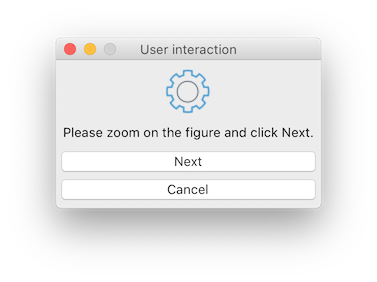
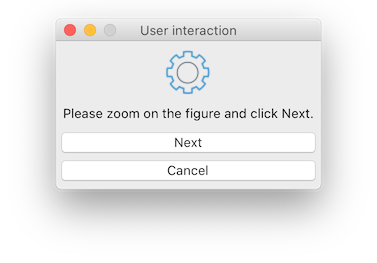
Resized the images in readme

Changed region(s): [[0.1459, 0.0913, 0.8753, 0.7605]]

diff --git a/README.md b/README.md
@@ -90,7 +90,7 @@ choice_index = li.button_dialog('Please zoom on the figure and click Next.',
 ```
 
 ![button_dialog_user_interaction_macOS](https://raw.githubusercontent.com/felixchenier/limitedinteraction/main/doc/button_dialog_user_interaction.png)
-![button_dialog_user_interaction_win10](https://raw.githubusercontent.com/felixchenier/limitedinteraction/main/doc/button_dialog_user_interaction.png)
+![button_dialog_user_interaction_win10](https://raw.githubusercontent.com/felixchenier/limitedinteraction/main/doc/button_dialog_user_interaction_win10.png)
 
 This is a blocking function. We wait for a choice before continuing. Meanwhile,
 Matplotlib's event loop is refreshed so that the user can interact with
